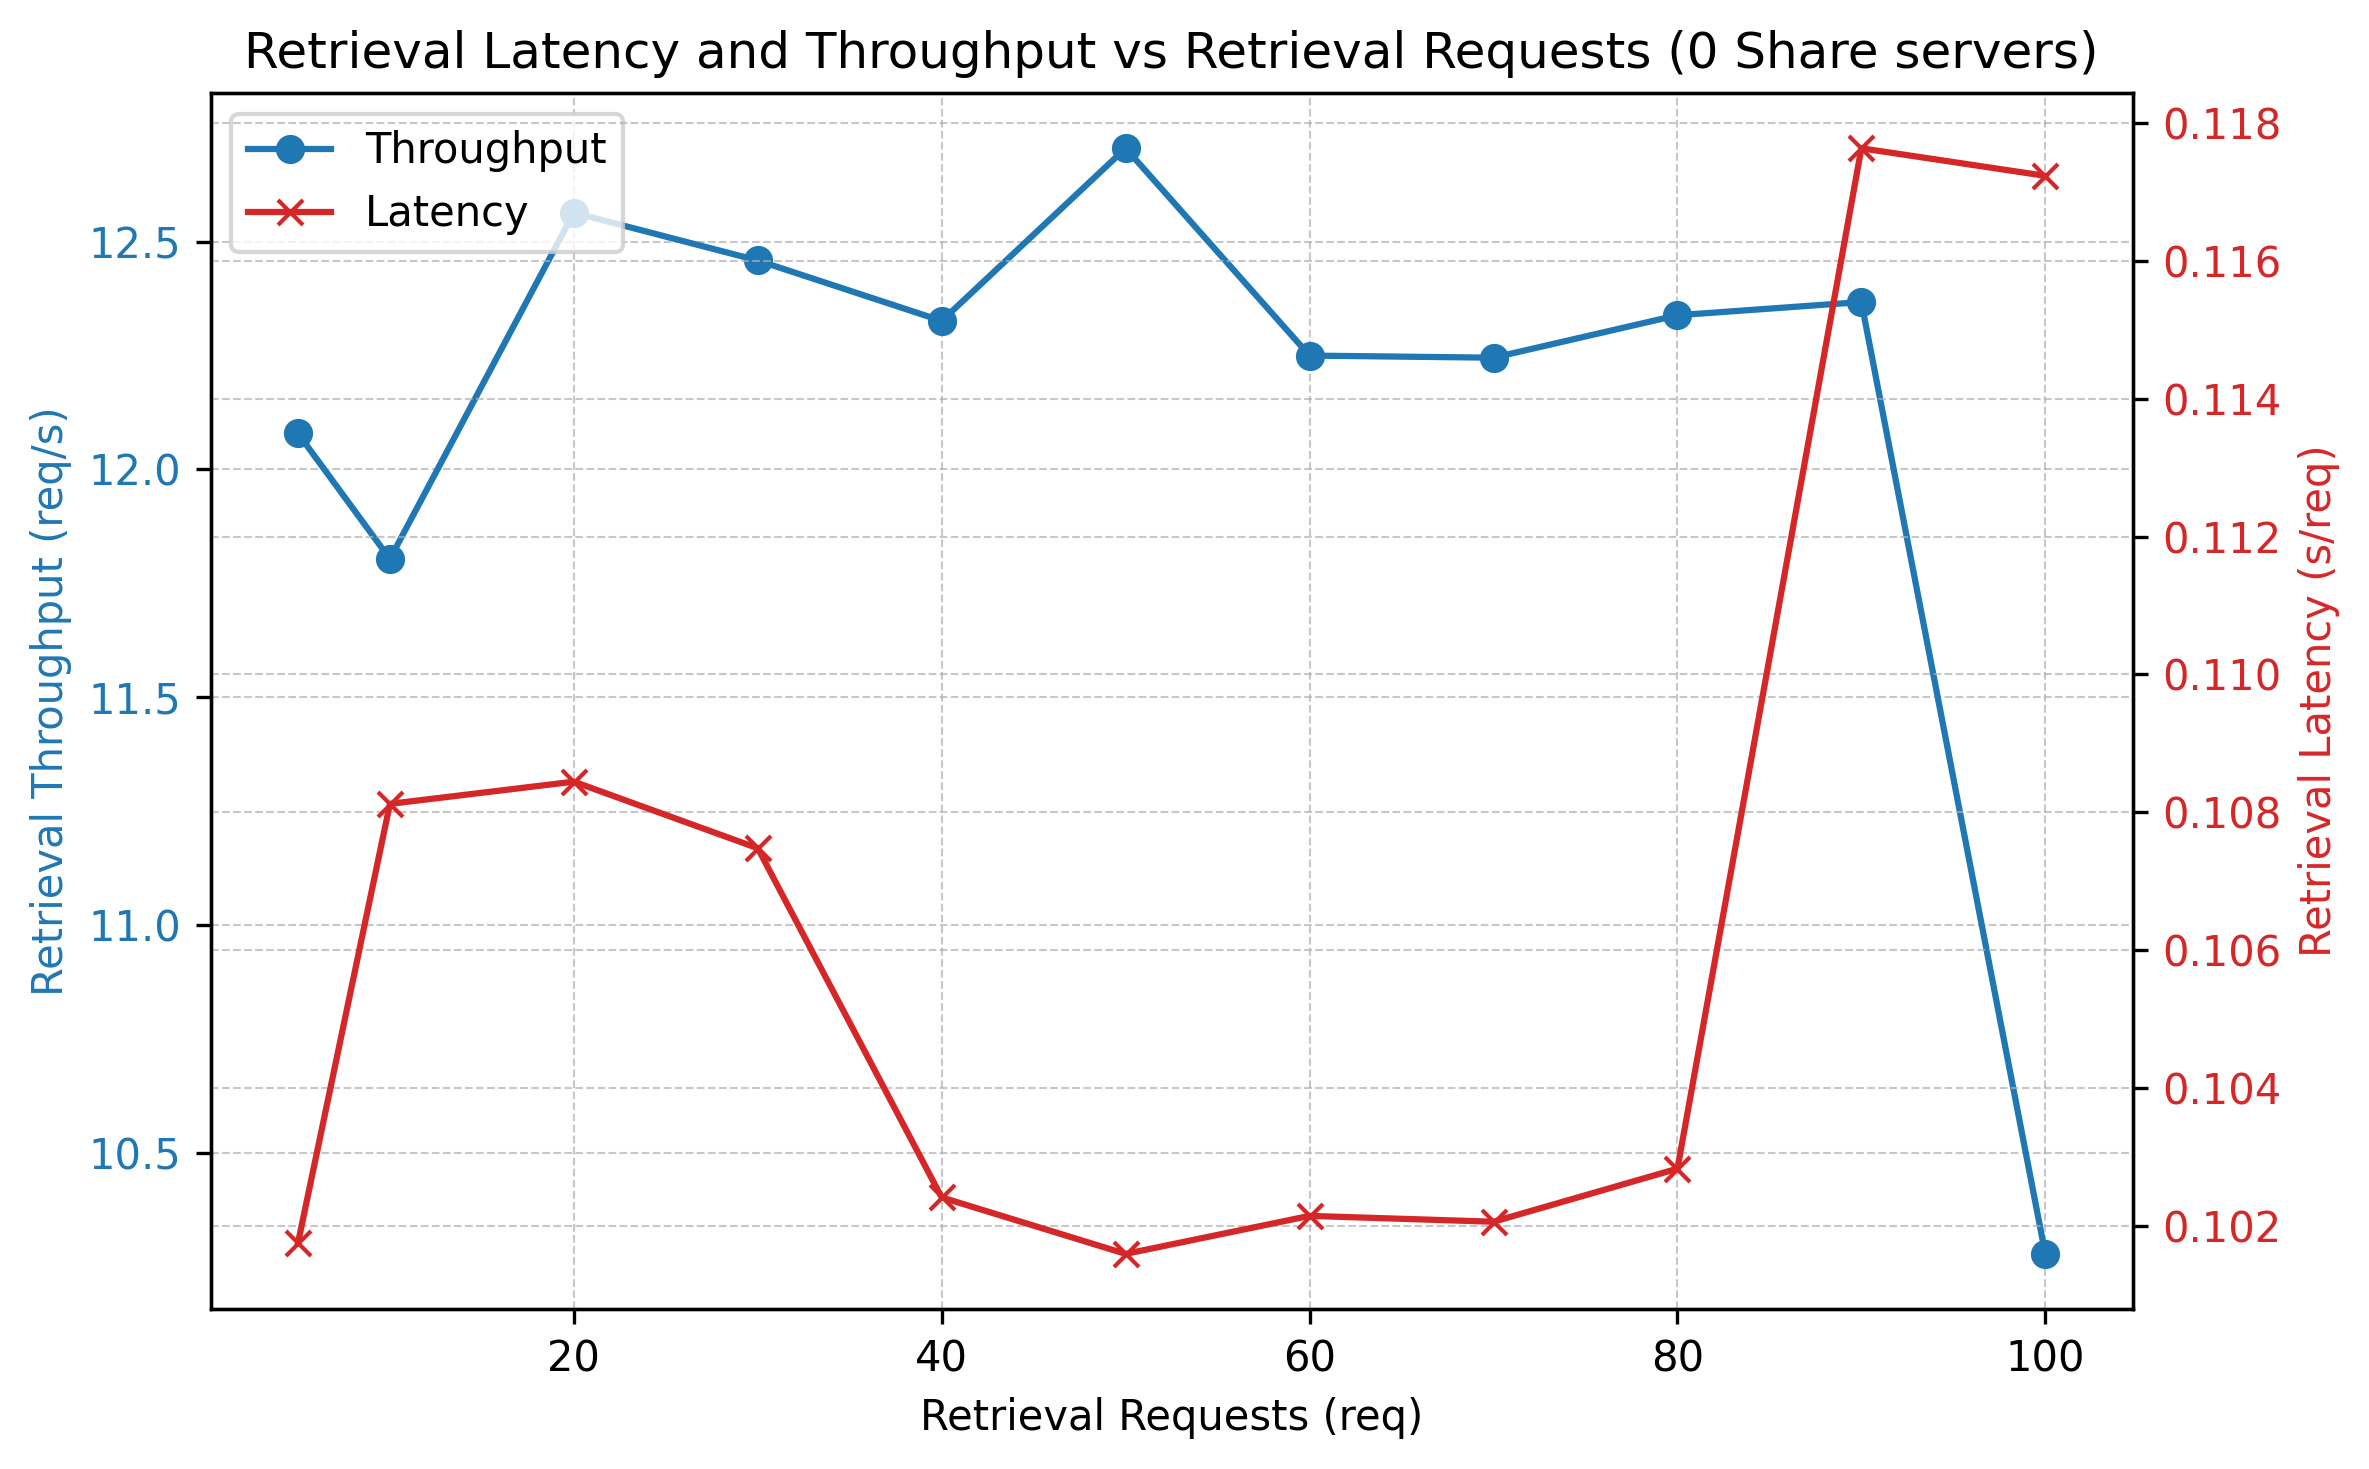
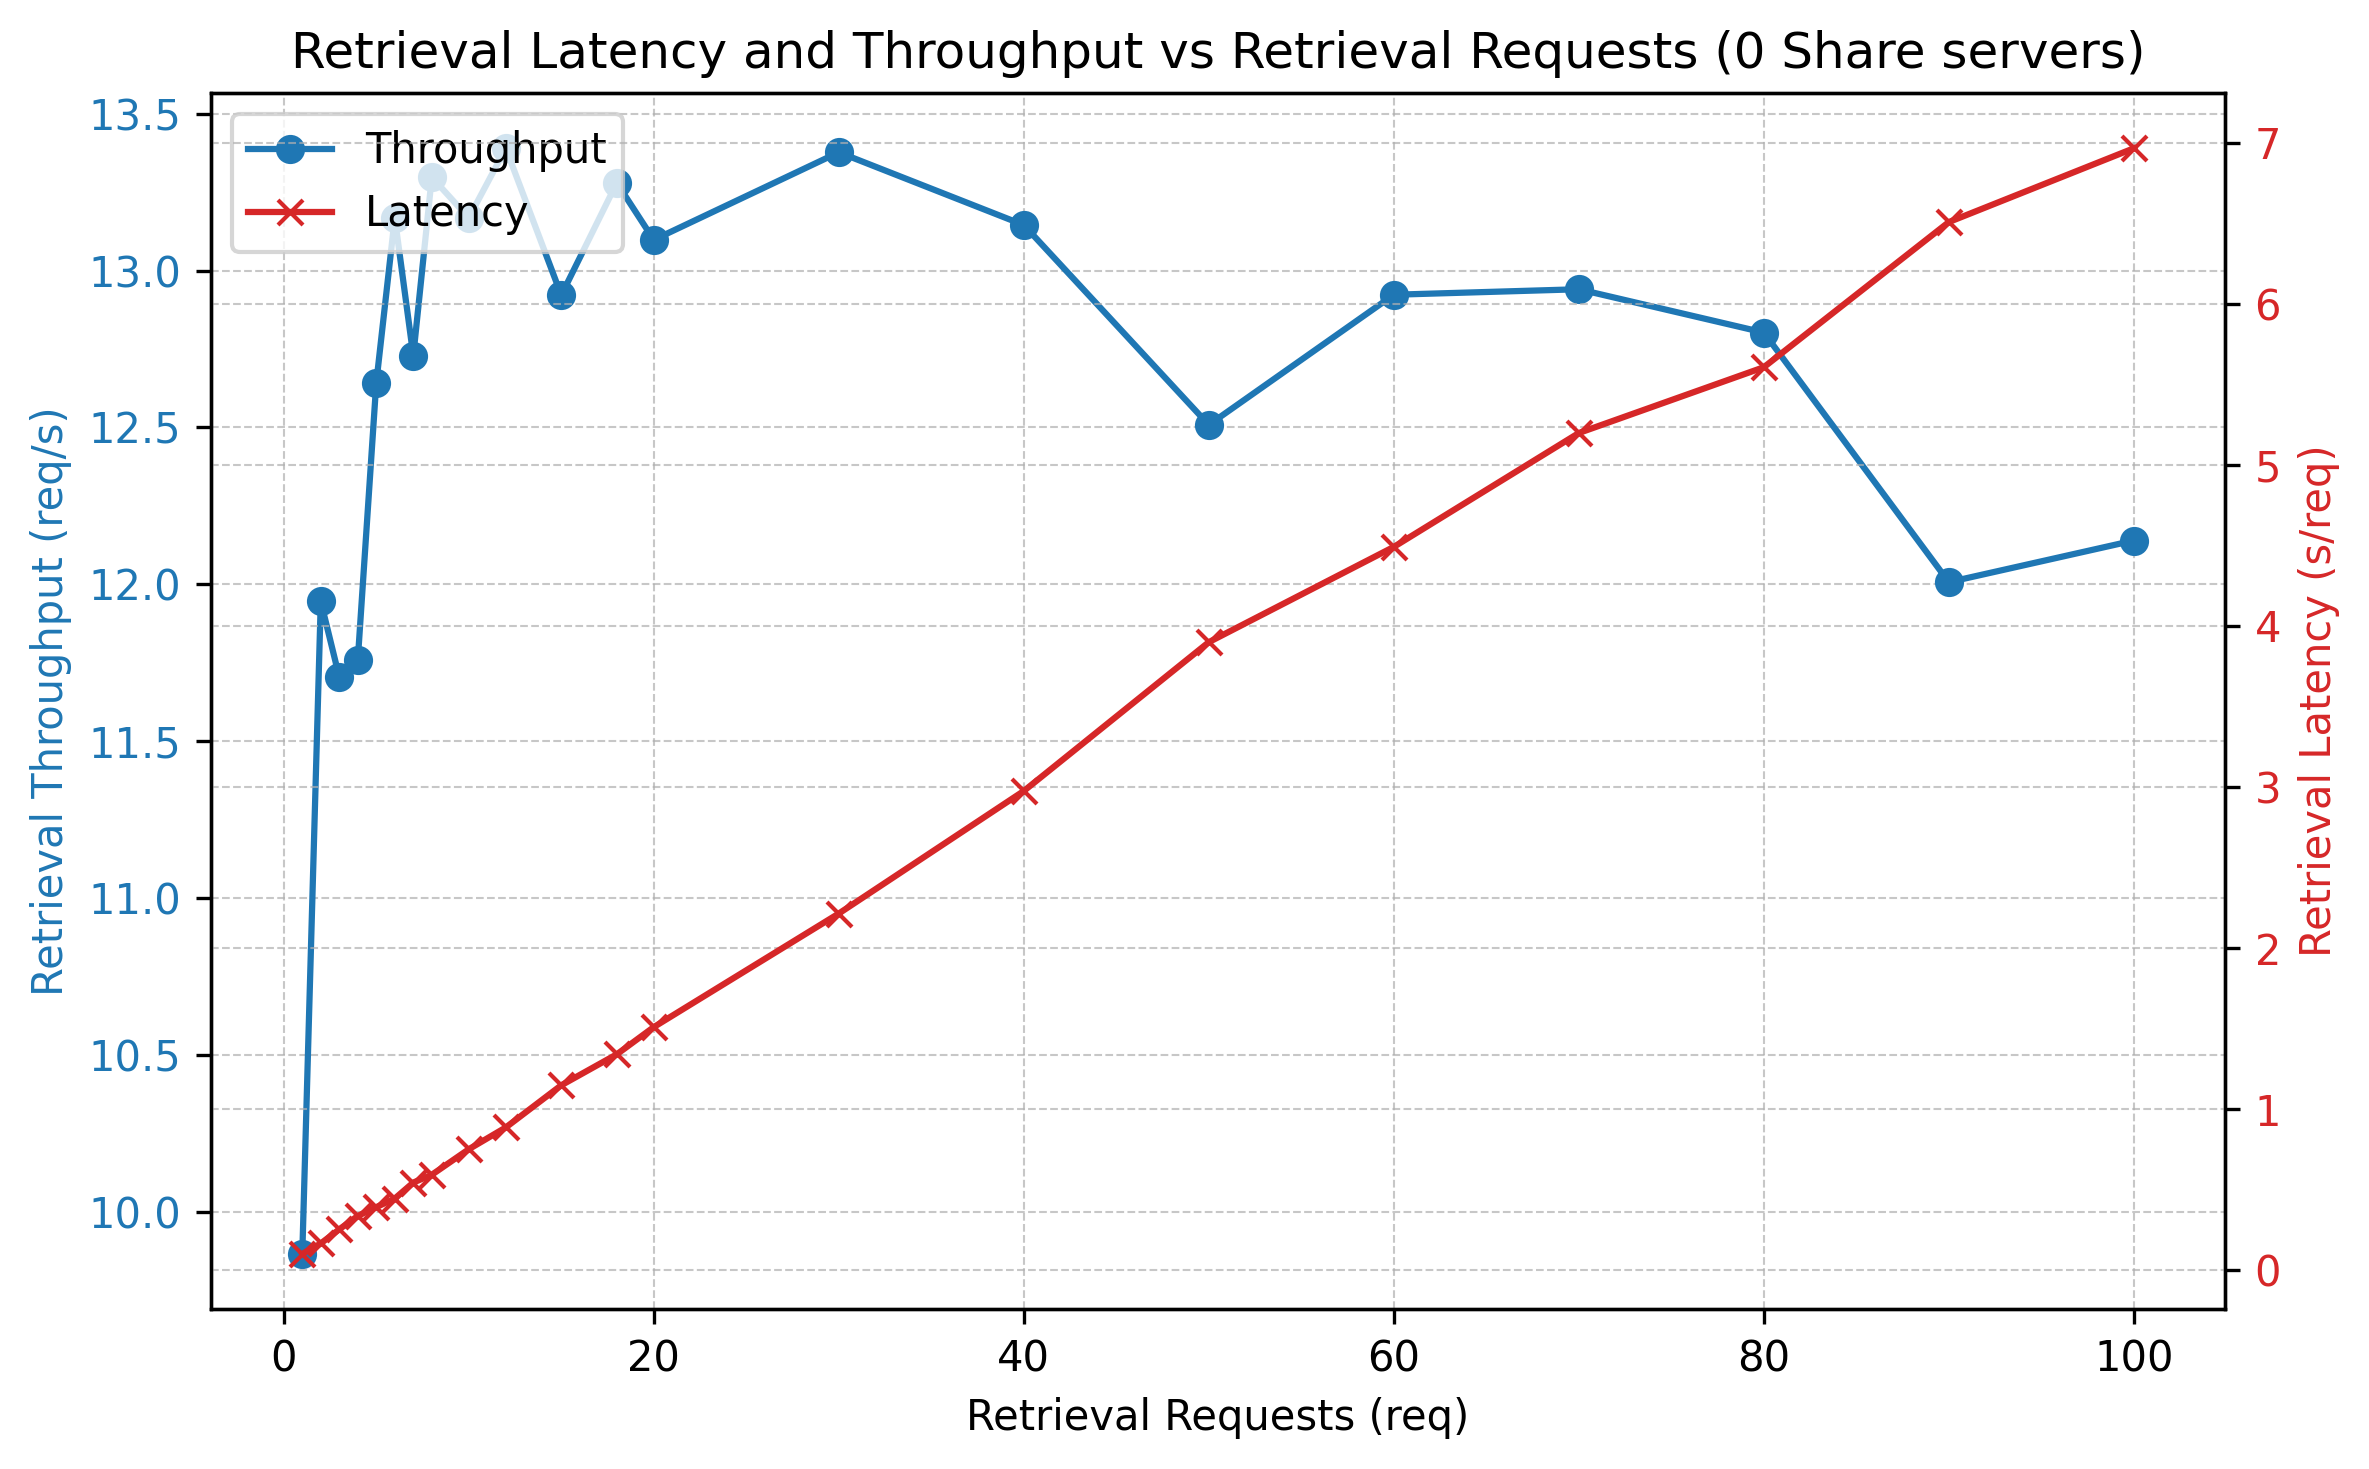
correct tests runs

diff --git a/evaluation/run_evaluation.py b/evaluation/run_evaluation.py
@@ -85,7 +85,6 @@ def run_evaluation(num_share_servers):
         # capture output to retrieve test results
         capture_output=True,
         text=True,
-        check=True,
     )
     output_str = result.stdout.strip()
     print(f"raw test results: {output_str}")
@@ -130,7 +129,7 @@ if __name__ == "__main__":
         throughputs_label="Storage Throughput (req/s)",
         x_label="Storage Requests (req)",
         title=f"Storage Latency and Throughput vs Storage Requests ({args.num_share_servers} Share servers)",
-        # save_name=f"Storage_Latency_Throughput_{args.num_share_servers}_Share_servers",
+        save_name=f"Storage_Latency_Throughput_{args.num_share_servers}_Share_servers",
     )
 
     make_plot(
@@ -141,83 +140,5 @@ if __name__ == "__main__":
         throughputs_label="Retrieval Throughput (req/s)",
         x_label="Retrieval Requests (req)",
         title=f"Retrieval Latency and Throughput vs Retrieval Requests ({args.num_share_servers} Share servers)",
-        # save_name=f"Retrieval_Latency_Throughput_{args.num_share_servers}_Share_servers",
+        save_name=f"Retrieval_Latency_Throughput_{args.num_share_servers}_Share_servers",
     )
-
-    # iterations = [5, 10, 20, 30, 40, 50, 60, 70, 80, 90, 100]
-
-    # ZERO SHARE SERVERS
-    # num_share_servers=0
-    # storage_latencies=[0.10344233512878417, 0.10239672660827637, 0.0874090313911438, 0.09212887287139893, 0.0938804030418396, 0.08751969814300536, 0.09135931730270386, 0.08795297145843506, 0.08732304573059083, 0.09266062047746447, 0.09989157676696778]
-    # storage_throughputs=[12.973018448559246, 13.362290297494896, 15.062595559657508, 15.088146303402285, 14.622280767533917, 15.359914875471759, 14.117917920725704, 14.880683137963555, 14.032023245837765, 14.503087416895967, 13.46760402616854]
-    # retrieval_latencies=[0.10175595283508301, 0.10812406539916992, 0.10844616889953614, 0.1074806292851766, 0.10241873264312744, 0.10159997940063477, 0.10215119123458863, 0.10206617968423026, 0.10283526480197906, 0.11762855847676595, 0.11722919464111328]
-    # retrieval_throughputs=[12.079081434294157, 11.803582805953482, 12.56324674986244, 12.458459465020129, 12.325908789890079, 12.70465768548213, 12.249782830849886, 12.245156813438717, 12.33830797474875, 12.36730696624749, 10.278662929628121]
-
-    # TWO SHARE SERVERS:
-    # num_share_servers=2
-    # storage_latencies=[0.08656125068664551, 0.09482369422912598, 0.08774614334106445, 0.08816237449645996, 0.08779698610305786, 0.09167262077331544, 0.09133858283360799, 0.10409442697252547, 0.09769537150859833, 0.08982275591956244, 0.09177240371704101]
-    # storage_throughputs=[13.914908242575605, 15.001441378802218, 13.315629126605343, 14.831987054601143, 14.910149222215152, 12.788002661809408, 11.86101504152751, 13.540097467985142, 12.596504257919507, 14.284187272533256, 13.86432012371604]
-    # retrieval_latencies=[0.12269158363342285, 0.11517317295074463, 0.11610478162765503, 0.11586401462554932, 0.11552339792251587, 0.12600137233734132, 0.11910789012908936, 0.14550838470458985, 0.14198515117168425, 0.12097434467739529, 0.119407377243042]
-    # retrieval_throughputs=[11.374365221371843, 11.729126590161615, 11.934332920138667, 10.784555085780795, 11.487670855249748, 9.496872078434764, 10.548242514534847, 10.862319772203053, 10.200858625562505, 11.545105884093715, 10.848804670721128]
-
-    # FOUR SHARE SERVERS:
-    # num_share_servers=4
-    # storage_latencies=[0.09959678649902344, 0.09958405494689941, 0.09241591691970825, 0.08990127245585124, 0.09393458366394043, 0.09395970344543457, 0.09466457764307658, 0.09747734410422189, 0.10949640274047852, 0.09154994752671984, 0.10233944654464722]
-    # storage_throughputs=[11.829889826975721, 11.779793921909615, 14.968305287043915, 14.612914734213343, 12.604763302542205, 13.929449297922284, 12.427553292161694, 13.027942418520471, 12.227755021244695, 14.042717031971817, 13.843890977589409]
-    # retrieval_latencies=[0.20653853416442872, 0.136871337890625, 0.13047205209732055, 0.1363866170247396, 0.13548480868339538, 0.15640661239624024, 0.14210898478825887, 0.14394753319876535, 0.144480362534523, 0.1334781461291843, 0.16337846517562865]
-    # retrieval_throughputs=[7.79785208357115, 8.620253167158516, 10.925301257542834, 10.776574852884123, 9.456431561697983, 9.885979595157702, 9.173975532151536, 8.774172463318157, 8.317722703575589, 10.090098373868063, 9.386424539231907]
-
-    # EIGHT SHARE SERVERS:
-    # num_share_servers = 8
-    # storage_latencies = [
-    #     0.09295716285705566,
-    #     0.08777565956115722,
-    #     0.09878194332122803,
-    #     0.08858563105265299,
-    #     0.09348608255386352,
-    #     0.09104504585266113,
-    #     0.09506626923878987,
-    #     0.09516617230006627,
-    #     0.09608559608459473,
-    #     0.08875725799136691,
-    #     0.10219867944717408,
-    # ]
-    # storage_throughputs = [
-    #     12.120304228217398,
-    #     14.336873653238245,
-    #     13.349726993362223,
-    #     13.719971066065455,
-    #     13.44567921764898,
-    #     14.354406863386957,
-    #     13.790340425312724,
-    #     12.807511660084888,
-    #     13.481510451330683,
-    #     14.154075210937465,
-    #     12.755575423156223,
-    # ]
-    # retrieval_latencies = [
-    #     0.1722555637359619,
-    #     0.15796144008636476,
-    #     0.1670721650123596,
-    #     0.167867644627889,
-    #     0.1717471718788147,
-    #     0.2005323839187622,
-    #     0.18219200372695923,
-    #     0.1733016014099121,
-    #     0.17200062274932862,
-    #     0.1764021529091729,
-    #     0.1987622618675232,
-    # ]
-    # retrieval_throughputs = [
-    #     7.9270147597347425,
-    #     8.667330273468133,
-    #     7.78009704568797,
-    #     8.136041408944884,
-    #     7.184903511675414,
-    #     8.386898414627163,
-    #     8.21643560459869,
-    #     8.265774342303706,
-    #     8.75538349085332,
-    #     8.304515552788514,
-    #     8.013353245155646,
-    # ]

diff --git a/src/vault/user/evaluation.py b/src/vault/user/evaluation.py
@@ -128,7 +128,29 @@ async def main(
 
     await user_obj.register(password=password)
 
-    iterations = [5, 10, 20, 30, 40, 50, 60, 70, 80, 90, 100]
+    iterations = [
+        1,
+        2,
+        3,
+        4,
+        5,
+        6,
+        7,
+        8,
+        10,
+        12,
+        15,
+        18,
+        20,
+        30,
+        40,
+        50,
+        60,
+        70,
+        80,
+        90,
+        100,
+    ]
     storage_latencies = []
     storage_throughputs = []
     retrieval_latencies = []
